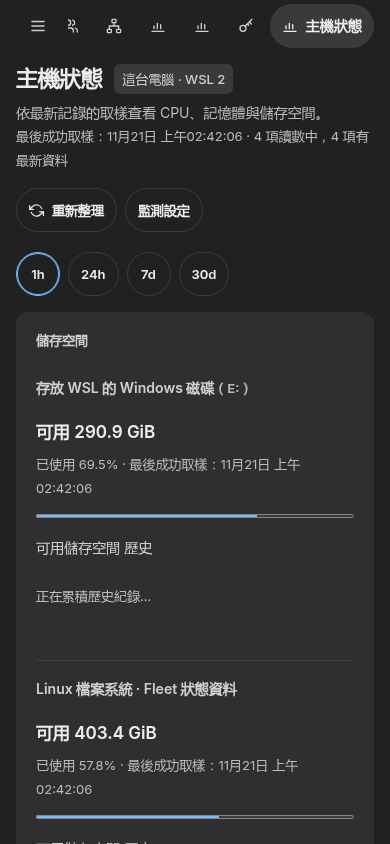
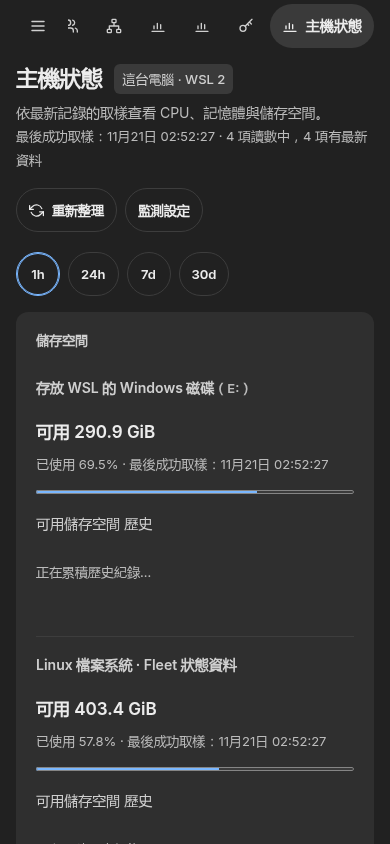
fix(web): keep Host health dates and load values together

diff --git a/src/ui/host-health.js b/src/ui/host-health.js
@@ -7,11 +7,12 @@ import {sectionPath} from '/assets/app-route.js';
 import {HOST_RANGES,numberOrNull,metricState,displayBytes,storageRows,historySeries,chartData,sampleCoverage} from './host-health-model.js';
 
 register('hostHealth',{
- en:{title:'Host health',computer:'This computer',lead:'CPU, memory and storage from the latest recorded samples.',settings:'Monitoring settings',refresh:'Refresh',refreshing:'Refreshing…',unsupported:'Host monitoring is not available on this computer.',off:'Host monitoring is off',offHint:'Turn it on in Settings to collect samples and keep bounded local history.',admin:'Administrator sign-in required',adminHint:'Sign in as a Fleet administrator to see host metrics.',starting:'Waiting for the first samples',stopping:'Stopping monitoring',failedHint:'Monitoring could not complete. Check its settings and local storage permissions; history cleanup may still need attention.',failed:'Monitoring needs attention',unavailable:'Not available',stale:'Stale',last:'Last successful sample: {0}',none:'No successful sample yet',wsl:'WSL 2',linux:'Linux',darwin:'macOS',wslNote:'CPU and memory describe WSL, not the physical Windows computer. The Windows backing drive is shown separately.',macNote:'APFS volumes may share free space. Do not add their free space together. Available memory is an estimate; pressure is shown separately.',linuxNote:'Local Linux filesystems and available memory. Unavailable fields are not treated as zero.',runtimeNote:'Paired Windows Runtimes are separate computers and are not included in these totals.',storage:'Storage',root:'Linux filesystem',state:'Fleet state',backing:'Windows backing drive',volume:'Local volume',drive:' ({0}:)',shared:'Shared APFS capacity',sharedHint:'Do not add free space across volumes.',free:'{0} available',used:'{0}% used',unknownDrive:'Windows drive not identified',chooseDrive:'Choose drive in Settings',unknownHint:'Linux free space alone does not show whether the Windows drive holding WSL has room.',cpu:'CPU',wslCpu:'WSL CPU',wslMemory:'WSL memory',cpuUsed:'{0}% used',cores:'{0} logical CPUs',load:'Load average: {0}',memory:'Memory',available:'{0} available of {1}',pressureLabel:'Memory pressure:',pressure:'Memory pressure: {0}',normal:'Normal',elevated:'Elevated',critical:'Critical',unknown:'Unknown',swap:'Swap free: {0}',history:'History',range:'History range',coverageSummary:'{0} of {1} readings have fresh data',collecting:'Collecting history…',noHistory:'No recorded samples in this range',historyUnavailable:'Recorded history is temporarily unavailable. Refresh to try again.',historyLoading:'Loading recorded history…',historyWaiting:'History has not started recording yet.',historyPaused:'History recording is paused.',historyFailed:'History could not be recorded. Current samples remain available.',lowSpace:'Low storage: keeping current samples in memory only.',recovering:'Waiting for both storage volumes to stay above 4 GiB for ten minutes.',diskUnavailable:'Storage data is unavailable; history is paused.',backingUnknown:'Identify the Windows backing drive before history can be recorded.',clockChanged:'The computer clock moved backwards; recording is waiting for it to catch up.',historyBusy:'History storage is busy; no additional write is queued.',minimum:'Minimum: {0}',maximum:'Peak: {0}',coverage:'{0} of {1} chart buckets contain recorded samples',gaps:'Gaps mean no sample was recorded; they are not zero.',retention:'History is capped at 64 MiB, with up to 24 hours of raw samples and 30 days of rollups. Older samples may be pruned earlier.',footprint:'Agent footprint is not available in this version.',snapshotOnly:'Refresh reads saved snapshots. It does not start a new probe.',samples:'Host every 30 s · storage every 60 s',chart:'{0} history',usedHistory:'Storage used',freeHistory:'Storage available',notMeasured:'Not measured'},
- 'zh-TW':{title:'主機狀態',computer:'這台電腦',lead:'依最新記錄的取樣查看 CPU、記憶體與儲存空間。',settings:'監測設定',refresh:'重新整理',refreshing:'重新整理中…',unsupported:'這台電腦尚未提供主機監測。',off:'主機監測已關閉',offHint:'請在設定中開啟，開始取樣並保留容量受限的本機歷史。',admin:'需要管理員登入',adminHint:'請以 Fleet 管理員身分登入，才能查看主機資料。',starting:'等待第一筆取樣',stopping:'正在停止監測',failedHint:'主機監測未能完成操作，請檢查設定與本機儲存空間權限；歷史資料可能仍需清理。',failed:'主機監測需要處理',unavailable:'無法取得',stale:'資料已過期',last:'最後成功取樣：{0}',none:'尚無成功的取樣',wsl:'WSL 2',linux:'Linux',darwin:'macOS',wslNote:'CPU 與記憶體代表 WSL，不是實體 Windows 電腦。存放 WSL 的 Windows 磁碟會另外列出。',macNote:'APFS 磁碟區可能共用空間，請勿把可用空間相加。可用記憶體是估算值，記憶體壓力會另外顯示。',linuxNote:'本機 Linux 檔案系統與可用記憶體。無法取得的欄位不會當作零。',runtimeNote:'配對的 Windows Runtime 是另一台電腦，不會加入這裡的總數。',storage:'儲存空間',root:'Linux 檔案系統',state:'Fleet 狀態資料',backing:'存放 WSL 的 Windows 磁碟',volume:'本機磁碟區',drive:'（{0}:）',shared:'共用 APFS 容量',sharedHint:'請勿把各磁碟區的可用空間相加。',free:'可用 {0}',used:'已使用 {0}%',unknownDrive:'尚未確認 Windows 磁碟',chooseDrive:'到設定選擇磁碟',unknownHint:'只有 Linux 的可用空間，無法判斷存放 WSL 的 Windows 磁碟是否還有空間。',cpu:'CPU',wslCpu:'WSL CPU',wslMemory:'WSL 記憶體',cpuUsed:'使用率 {0}%',cores:'{0} 個邏輯 CPU',load:'平均負載：{0}',memory:'記憶體',available:'可用 {0}，共 {1}',pressureLabel:'記憶體壓力：',pressure:'記憶體壓力：{0}',normal:'正常',elevated:'偏高',critical:'嚴重',unknown:'未知',swap:'Swap 可用：{0}',history:'歷史紀錄',range:'歷史期間',coverageSummary:'{1} 項讀數中，{0} 項有最新資料',collecting:'正在累積歷史紀錄…',noHistory:'這段期間尚無記錄的取樣',historyUnavailable:'暫時無法取得歷史紀錄，請重新整理再試。',historyLoading:'正在載入歷史紀錄…',historyWaiting:'歷史紀錄尚未開始取樣。',historyPaused:'歷史紀錄已暫停。',historyFailed:'無法記錄歷史，目前的取樣仍可查看。',lowSpace:'儲存空間不足：目前取樣只保留在記憶體中。',recovering:'等待兩個儲存空間持續十分鐘都超過 4 GiB。',diskUnavailable:'無法取得儲存空間資料，歷史紀錄已暫停。',backingUnknown:'請先確認存放 WSL 的 Windows 磁碟，再記錄歷史。',clockChanged:'電腦時間往回調整，正在等待時間追上後再記錄。',historyBusy:'歷史儲存空間忙碌中，不會排入額外的寫入。',minimum:'最低：{0}',maximum:'最高：{0}',coverage:'{1} 個圖表區間中，{0} 個有記錄取樣',gaps:'缺口代表沒有記錄取樣，不是零。',retention:'歷史資料最多 64 MiB；原始取樣最多保留 24 小時，彙整最多 30 天。較舊的取樣可能提早清除。',footprint:'這個版本尚未提供 Agent 資源用量。',snapshotOnly:'重新整理只讀取已保存的取樣，不會啟動新的探測。',samples:'主機每 30 秒 · 儲存空間每 60 秒',chart:'{0} 歷史',usedHistory:'儲存空間使用率',freeHistory:'可用儲存空間',notMeasured:'未量測'}
+ en:{title:'Host health',computer:'This computer',lead:'CPU, memory and storage from the latest recorded samples.',settings:'Monitoring settings',refresh:'Refresh',refreshing:'Refreshing…',unsupported:'Host monitoring is not available on this computer.',off:'Host monitoring is off',offHint:'Turn it on in Settings to collect samples and keep bounded local history.',admin:'Administrator sign-in required',adminHint:'Sign in as a Fleet administrator to see host metrics.',starting:'Waiting for the first samples',stopping:'Stopping monitoring',failedHint:'Monitoring could not complete. Check its settings and local storage permissions; history cleanup may still need attention.',failed:'Monitoring needs attention',unavailable:'Not available',stale:'Stale',lastLabel:'Last successful sample:',last:'Last successful sample: {0}',none:'No successful sample yet',wsl:'WSL 2',linux:'Linux',darwin:'macOS',wslNote:'CPU and memory describe WSL, not the physical Windows computer. The Windows backing drive is shown separately.',macNote:'APFS volumes may share free space. Do not add their free space together. Available memory is an estimate; pressure is shown separately.',linuxNote:'Local Linux filesystems and available memory. Unavailable fields are not treated as zero.',runtimeNote:'Paired Windows Runtimes are separate computers and are not included in these totals.',storage:'Storage',root:'Linux filesystem',state:'Fleet state',backing:'Windows backing drive',volume:'Local volume',drive:' ({0}:)',shared:'Shared APFS capacity',sharedHint:'Do not add free space across volumes.',free:'{0} available',used:'{0}% used',unknownDrive:'Windows drive not identified',chooseDrive:'Choose drive in Settings',unknownHint:'Linux free space alone does not show whether the Windows drive holding WSL has room.',cpu:'CPU',wslCpu:'WSL CPU',wslMemory:'WSL memory',cpuUsed:'{0}% used',cores:'{0} logical CPUs',loadLabel:'Load average:',load:'Load average: {0}',memory:'Memory',available:'{0} available of {1}',pressureLabel:'Memory pressure:',pressure:'Memory pressure: {0}',normal:'Normal',elevated:'Elevated',critical:'Critical',unknown:'Unknown',swap:'Swap free: {0}',history:'History',range:'History range',coverageSummary:'{0} of {1} readings have fresh data',collecting:'Collecting history…',noHistory:'No recorded samples in this range',historyUnavailable:'Recorded history is temporarily unavailable. Refresh to try again.',historyLoading:'Loading recorded history…',historyWaiting:'History has not started recording yet.',historyPaused:'History recording is paused.',historyFailed:'History could not be recorded. Current samples remain available.',lowSpace:'Low storage: keeping current samples in memory only.',recovering:'Waiting for both storage volumes to stay above 4 GiB for ten minutes.',diskUnavailable:'Storage data is unavailable; history is paused.',backingUnknown:'Identify the Windows backing drive before history can be recorded.',clockChanged:'The computer clock moved backwards; recording is waiting for it to catch up.',historyBusy:'History storage is busy; no additional write is queued.',minimum:'Minimum: {0}',maximum:'Peak: {0}',coverage:'{0} of {1} chart buckets contain recorded samples',gaps:'Gaps mean no sample was recorded; they are not zero.',retention:'History is capped at 64 MiB, with up to 24 hours of raw samples and 30 days of rollups. Older samples may be pruned earlier.',footprint:'Agent footprint is not available in this version.',snapshotOnly:'Refresh reads saved snapshots. It does not start a new probe.',samples:'Host every 30 s · storage every 60 s',chart:'{0} history',usedHistory:'Storage used',freeHistory:'Storage available',notMeasured:'Not measured'},
+ 'zh-TW':{title:'主機狀態',computer:'這台電腦',lead:'依最新記錄的取樣查看 CPU、記憶體與儲存空間。',settings:'監測設定',refresh:'重新整理',refreshing:'重新整理中…',unsupported:'這台電腦尚未提供主機監測。',off:'主機監測已關閉',offHint:'請在設定中開啟，開始取樣並保留容量受限的本機歷史。',admin:'需要管理員登入',adminHint:'請以 Fleet 管理員身分登入，才能查看主機資料。',starting:'等待第一筆取樣',stopping:'正在停止監測',failedHint:'主機監測未能完成操作，請檢查設定與本機儲存空間權限；歷史資料可能仍需清理。',failed:'主機監測需要處理',unavailable:'無法取得',stale:'資料已過期',lastLabel:'最後成功取樣：',last:'最後成功取樣：{0}',none:'尚無成功的取樣',wsl:'WSL 2',linux:'Linux',darwin:'macOS',wslNote:'CPU 與記憶體代表 WSL，不是實體 Windows 電腦。存放 WSL 的 Windows 磁碟會另外列出。',macNote:'APFS 磁碟區可能共用空間，請勿把可用空間相加。可用記憶體是估算值，記憶體壓力會另外顯示。',linuxNote:'本機 Linux 檔案系統與可用記憶體。無法取得的欄位不會當作零。',runtimeNote:'配對的 Windows 電腦是另一台，不算在這裡的數字裡。',storage:'儲存空間',root:'Linux 檔案系統',state:'Fleet 狀態資料',backing:'存放 WSL 的 Windows 磁碟',volume:'本機磁碟區',drive:'（{0}:）',shared:'共用 APFS 容量',sharedHint:'請勿把各磁碟區的可用空間相加。',free:'可用 {0}',used:'已使用 {0}%',unknownDrive:'尚未確認 Windows 磁碟',chooseDrive:'到設定選擇磁碟',unknownHint:'只有 Linux 的可用空間，無法判斷存放 WSL 的 Windows 磁碟是否還有空間。',cpu:'CPU',wslCpu:'WSL CPU',wslMemory:'WSL 記憶體',cpuUsed:'使用率 {0}%',cores:'{0} 個邏輯 CPU',loadLabel:'平均負載：',load:'平均負載：{0}',memory:'記憶體',available:'可用 {0}，共 {1}',pressureLabel:'記憶體壓力：',pressure:'記憶體壓力：{0}',normal:'正常',elevated:'偏高',critical:'嚴重',unknown:'未知',swap:'Swap 可用：{0}',history:'歷史紀錄',range:'歷史期間',coverageSummary:'{1} 項讀數中，{0} 項有最新資料',collecting:'正在累積歷史紀錄…',noHistory:'這段期間尚無記錄的取樣',historyUnavailable:'暫時無法取得歷史紀錄，請重新整理再試。',historyLoading:'正在載入歷史紀錄…',historyWaiting:'歷史紀錄尚未開始取樣。',historyPaused:'歷史紀錄已暫停。',historyFailed:'無法記錄歷史，目前的取樣仍可查看。',lowSpace:'儲存空間不足：目前取樣只保留在記憶體中。',recovering:'等待兩個儲存空間持續十分鐘都超過 4 GiB。',diskUnavailable:'無法取得儲存空間資料，歷史紀錄已暫停。',backingUnknown:'請先確認存放 WSL 的 Windows 磁碟，再記錄歷史。',clockChanged:'電腦時間往回調整，正在等待時間追上後再記錄。',historyBusy:'歷史儲存空間忙碌中，不會排入額外的寫入。',minimum:'最低：{0}',maximum:'最高：{0}',coverage:'{1} 個圖表區間中，{0} 個有記錄取樣',gaps:'缺口代表沒有記錄取樣，不是零。',retention:'歷史資料最多 64 MiB；原始取樣最多保留 24 小時，彙整最多 30 天。較舊的取樣可能提早清除。',footprint:'這個版本尚未提供 Agent 資源用量。',snapshotOnly:'重新整理只讀取已保存的取樣，不會啟動新的探測。',samples:'主機每 30 秒 · 儲存空間每 60 秒',chart:'{0} 歷史',usedHistory:'儲存空間使用率',freeHistory:'可用儲存空間',notMeasured:'未量測'}
 });
 const text=(key,...values)=>t(`hostHealth.${key}`,...values);
-const date=value=>numberOrNull(value)===null?text('none'):new Date(value).toLocaleString(lang()==='zh-TW'?'zh-TW':'en-GB',{month:'short',day:'numeric',hour:'2-digit',minute:'2-digit',second:'2-digit'});
+const date=value=>numberOrNull(value)===null?text('none'):new Date(value).toLocaleString(lang()==='zh-TW'?'zh-TW':'en-GB',{month:'short',day:'numeric',hour:'2-digit',minute:'2-digit',second:'2-digit',hour12:false});
+const sampleTime=value=>html`${text('lastLabel')}${lang()==='zh-TW'?'':' '}<span class="host-sample-time">${date(value)}</span>`;
 const settingLink=()=>sectionPath('notifications')+'#host-monitoring';
 const metricLabel=(metric,interval)=>metricState(metric,interval)==='ok'?null:text(metricState(metric,interval));
 export function historyMessage(status){
@@ -29,21 +30,21 @@ function Storage({health,history}){
  return html`<section class="card host-storage"><h3>${text('storage')}</h3>${health.platform==='wsl'&&health.disks?.value?.backingDrive!=='identified'?html`<div class="notice warn"><strong>${text('unknownDrive')}</strong><p>${text('unknownHint')}</p><a class="btn btn-sm" href=${settingLink()}>${text('chooseDrive')}</a></div>`:null}${!rows.length?html`<p class="note">${text('unavailable')}</p>`:rows.map(v=>{
   const name=v.roles.includes('wsl-backing')?text('backing'):v.roles.filter(r=>r==='root'||r==='state').map(r=>text(r==='root'?(health.platform==='darwin'?'volume':'root'):'state')).join(' · ')||text('volume');
   const known=state==='ok'&&numberOrNull(v.availableBytes)!==null;
-  return html`<article key=${v.id} class="host-volume"><div class="host-row"><h4>${name}${/^[A-Z]$/.test(v.drive||'')?html`<span class="note">${text('drive',v.drive)}</span>`:null}</h4>${state!=='ok'||!known?html`<span class="tag">${text(state==='stale'?'stale':'unavailable')}</span>`:null}</div><p class="host-value">${numberOrNull(v.availableBytes)!==null?text('free',displayBytes(v.availableBytes)):text('unavailable')}</p><p class="note">${numberOrNull(v.usedPercent,100)!==null?text('used',v.usedPercent.toFixed(1)):text('unavailable')} · ${text('last',date(v.sampledAt))}</p>${numberOrNull(v.usedPercent,100)===null?null:html`<progress class="host-space-meter" value=${v.usedPercent} max="100" aria-label=${text('used',v.usedPercent.toFixed(1))}></progress>`}${health.platform==='darwin'&&v.shared?html`<p class="note">${text('shared')} · ${text('sharedHint')}</p>`:null}<${HistoryChart} answer=${history} id=${`disk.${v.id}.available`} label=${text('freeHistory')} unit="bytes" /></article>`;
+  return html`<article key=${v.id} class="host-volume"><div class="host-row"><h4>${name}${/^[A-Z]$/.test(v.drive||'')?html`<span class="note">${text('drive',v.drive)}</span>`:null}</h4>${state!=='ok'||!known?html`<span class="tag">${text(state==='stale'?'stale':'unavailable')}</span>`:null}</div><p class="host-value">${numberOrNull(v.availableBytes)!==null?text('free',displayBytes(v.availableBytes)):text('unavailable')}</p><p class="note">${numberOrNull(v.usedPercent,100)!==null?text('used',v.usedPercent.toFixed(1)):text('unavailable')} · ${sampleTime(v.sampledAt)}</p>${numberOrNull(v.usedPercent,100)===null?null:html`<progress class="host-space-meter" value=${v.usedPercent} max="100" aria-label=${text('used',v.usedPercent.toFixed(1))}></progress>`}${health.platform==='darwin'&&v.shared?html`<p class="note">${text('shared')} · ${text('sharedHint')}</p>`:null}<${HistoryChart} answer=${history} id=${`disk.${v.id}.available`} label=${text('freeHistory')} unit="bytes" /></article>`;
  })}</section>`;
 }
 export function HostHealthView({health,history,busy,range,onRange,onRefresh}){
  const at=[health?.cpu?.sampledAt,health?.memory?.sampledAt,health?.disks?.sampledAt].filter(v=>numberOrNull(v)!==null),last=at.length?Math.max(...at):null;
  const cpu=health?.cpu?.value,memory=health?.memory?.value,coverage=sampleCoverage(health);
  const populated=health?.enabled&&health?.platformSupported!==false,platform=text(['wsl','linux','darwin'].includes(health?.platform)?health.platform:'unavailable');
- return html`<section class="host-health" aria-busy=${busy}><${PageHead} title=${text('title')} scope=${text('computer')+(populated?' · '+platform:'')} lead=${text('lead')} note=${(last===null?text('none'):text('last',date(last)))+(populated?' · '+text('coverageSummary',coverage.covered,coverage.total):'')}><button type="button" class="btn btn-sm" disabled=${busy} onClick=${onRefresh}><${Icon} name="restart" size=${15}/>${text(busy?'refreshing':'refresh')}</button>${health?.platformSupported===false?null:html`<a class="btn btn-sm" href=${settingLink()}>${text('settings')}</a>`}</${PageHead}>
+ return html`<section class="host-health" aria-busy=${busy}><${PageHead} title=${text('title')} scope=${text('computer')+(populated?' · '+platform:'')} lead=${text('lead')} note=${html`${last===null?text('none'):sampleTime(last)}${populated?' · '+text('coverageSummary',coverage.covered,coverage.total):''}`}><button type="button" class="btn btn-sm" disabled=${busy} onClick=${onRefresh}><${Icon} name="restart" size=${15}/>${text(busy?'refreshing':'refresh')}</button>${health?.platformSupported===false?null:html`<a class="btn btn-sm" href=${settingLink()}>${text('settings')}</a>`}</${PageHead}>
   ${!populated?html`<p class="note">${text('snapshotOnly')}</p>`:null}
   ${health?.platformSupported===false?html`<section class="card"><h3>${text('unsupported')}</h3></section>`:!health?.enabled?html`<section class="card host-off"><h3>${text(health?.state==='failed'?'failed':health?.state==='stopping'?'stopping':'off')}</h3><p>${text(health?.state==='failed'?'failedHint':health?.state==='stopping'?'stopping':'offHint')}</p><a class="btn btn-primary" href=${settingLink()}>${text('settings')}</a></section>`:html`
    ${health.state!=='sampling'?html`<div class="notice" role="status">${text(({starting:'starting',stopping:'stopping',failed:'failed'})[health.state]||'unavailable')}</div>`:null}
    ${health.history?.state!=='recording'?html`<p class="notice" role="status">${historyMessage(health.history)}</p>`:null}
    <div class="host-range" role="group" aria-label=${text('range')}>${HOST_RANGES.map(r=>html`<button type="button" class=${`btn btn-sm${range===r?' active':''}`} aria-pressed=${range===r} onClick=${()=>onRange(r)}>${r}</button>`)}</div>
-   <div class="host-grid"><div class="host-compute"><section class="card"><div class="host-row"><h3>${text(health.platform==='wsl'?'wslCpu':'cpu')}</h3><${ValueState} metric=${health.cpu} interval=${30000}/></div><p class="host-value">${numberOrNull(cpu?.usedPercent,100)===null?text('unavailable'):text('cpuUsed',cpu.usedPercent.toFixed(1))}</p><p class="note">${numberOrNull(cpu?.logicalCpus)!==null?text('cores',cpu.logicalCpus):text('unavailable')}</p>${Array.isArray(cpu?.loadAverage)?html`<p class="note">${text('load',cpu.loadAverage.slice(0,3).map(n=>numberOrNull(n)===null?'—':n.toFixed(2)).join(' / '))}</p>`:null}<p class="note">${text('last',date(health.cpu?.sampledAt))}</p><${HistoryChart} answer=${history} id="cpu.used" label=${text('cpu')}/></section>
-   <section class="card"><div class="host-row"><h3>${text(health.platform==='wsl'?'wslMemory':'memory')}</h3><${ValueState} metric=${health.memory} interval=${30000}/></div><p class="host-value">${text('pressureLabel')}${lang()==='zh-TW'?'':' '}<span class="host-pressure-value">${text(metricState(health.memory,30000)==='ok'&&['normal','elevated','critical'].includes(memory?.pressure)?memory.pressure:'unknown')}</span></p><p class="note">${numberOrNull(memory?.availableBytes)===null?text('unavailable'):text('available',displayBytes(memory.availableBytes),displayBytes(memory.totalBytes)||text('unavailable'))}</p><p class="note">${text('swap',displayBytes(memory?.swapFreeBytes)||text('unavailable'))}</p><p class="note">${text('last',date(health.memory?.sampledAt))}</p><${HistoryChart} answer=${history} id="memory.available" label=${text('memory')} unit="bytes" /></section></div>
+   <div class="host-grid"><div class="host-compute"><section class="card"><div class="host-row"><h3>${text(health.platform==='wsl'?'wslCpu':'cpu')}</h3><${ValueState} metric=${health.cpu} interval=${30000}/></div><p class="host-value">${numberOrNull(cpu?.usedPercent,100)===null?text('unavailable'):text('cpuUsed',cpu.usedPercent.toFixed(1))}</p><p class="note">${numberOrNull(cpu?.logicalCpus)!==null?text('cores',cpu.logicalCpus):text('unavailable')}</p>${Array.isArray(cpu?.loadAverage)?html`<p class="note">${text('loadLabel')}${lang()==='zh-TW'?'':' '}<span class="host-load-value">${cpu.loadAverage.slice(0,3).map(n=>numberOrNull(n)===null?'—':n.toFixed(2)).join(' / ')}</span></p>`:null}<p class="note">${sampleTime(health.cpu?.sampledAt)}</p><${HistoryChart} answer=${history} id="cpu.used" label=${text('cpu')}/></section>
+   <section class="card"><div class="host-row"><h3>${text(health.platform==='wsl'?'wslMemory':'memory')}</h3><${ValueState} metric=${health.memory} interval=${30000}/></div><p class="host-value">${text('pressureLabel')}${lang()==='zh-TW'?'':' '}<span class="host-pressure-value">${text(metricState(health.memory,30000)==='ok'&&['normal','elevated','critical'].includes(memory?.pressure)?memory.pressure:'unknown')}</span></p><p class="note">${numberOrNull(memory?.availableBytes)===null?text('unavailable'):text('available',displayBytes(memory.availableBytes),displayBytes(memory.totalBytes)||text('unavailable'))}</p><p class="note">${text('swap',displayBytes(memory?.swapFreeBytes)||text('unavailable'))}</p><p class="note">${sampleTime(health.memory?.sampledAt)}</p><${HistoryChart} answer=${history} id="memory.available" label=${text('memory')} unit="bytes" /></section></div>
    <${Storage} health=${health} history=${history}/></div><p class="note">${text(health.platform==='wsl'?'wslNote':health.platform==='darwin'?'macNote':'linuxNote')}</p><p class="note">${text('samples')} · ${text('snapshotOnly')}</p><p class="note">${text('runtimeNote')}</p><p class="note">${text('gaps')}</p><p class="note">${text('retention')}</p><p class="note">${text('footprint')}</p>`}
  </section>`;
 }

diff --git a/tests/host-health-ui-m3454.test.ts b/tests/host-health-ui-m3454.test.ts
@@ -36,6 +36,9 @@ describe('real Host health UI',()=>{
   const draw=async()=>{await p.mount(h(HostHealthView,{health:health(),history:{series:[{id:'cpu.used',buckets}]},range:'1h',busy:false,onRange(){},onRefresh(){}}));await settle(4);};await draw();expect(p.root.querySelector('.host-chart svg')).toBeNull();expect(p.root.textContent).toContain(language==='en'?'Collecting history…':'正在累積歷史紀錄…');
   buckets[3]={average:40,min:40,max:40,count:1};await draw();expect(p.root.querySelector('.host-chart svg')).not.toBeNull();expect(p.root.textContent).toContain(language==='en'?'Peak: 40.0%':'最高：40.0%');
  });
+ it('keeps compact zh dates and the load-number group intact',async()=>{
+  const p=await view(health(),'zh-TW');const times=[...p.root.querySelectorAll('.host-sample-time')];expect(times).toHaveLength(5);for(const el of times){expect(el.textContent).toMatch(/\d+月\d+日.*\d{2}:\d{2}:\d{2}/);expect(el.textContent).not.toMatch(/上午|下午/);}expect(p.root.querySelector('.host-load-value')?.textContent).toBe('0.10 / 0.20 / 0.30');expect(p.root.textContent).toContain('配對的 Windows 電腦是另一台，不算在這裡的數字裡。');
+ });
  it('represents macOS APFS sharing and unknown pressure without a healthy substitute',async()=>{
   const s=health('darwin');s.memory.value!.pressure='unknown';s.disks.value!.volumes[0].shared=true;const p=await view(s);
   expect(p.root.textContent).toContain('Memory pressure: Unknown');expect(p.root.textContent).toContain('Shared APFS capacity');expect(p.root.textContent).toContain('Do not add their free space together');expect(p.root.textContent).not.toContain('Windows backing drive');expect(p.root.querySelectorAll('.host-volume')).toHaveLength(1);

diff --git a/src/ui/shared/app.css b/src/ui/shared/app.css
@@ -5103,6 +5103,7 @@ html.oo-immersive .p-fleet > .panel-body { z-index: 50; }
 /* M3454/S207: Host health uses the Fleet cards and shared page head. */
 .host-health { min-width: 0; }
 .host-health .s-page-actions { display: flex; flex-wrap: wrap; gap: var(--s-2); }
+.host-health :is(.host-sample-time, .host-load-value) { display: inline-block; white-space: nowrap; overflow-wrap: normal; }
 .host-health .host-pressure-value { white-space: nowrap; overflow-wrap: normal; }
 .host-health .host-row { display: flex; flex-wrap: wrap; align-items: baseline; justify-content: space-between; gap: 8px 16px; }
 .host-health .host-grid { display: grid; grid-template-columns: minmax(0, 1.4fr) minmax(0, 1fr) minmax(0, 1fr); gap: 16px; }

diff --git a/docs/evidence/host-health-page-m3454/R3.md b/docs/evidence/host-health-page-m3454/R3.md
@@ -1,0 +1,11 @@
+# Second Leader phone polish
+
+Scope: compact non-wrapping sample timestamps, a non-wrapping load-number group and natural Traditional Chinese Windows-computer wording. The drive suffix remains full-width `（E:）` as already checked in R1. Backend/model/route ownership/collector/history/Settings remain unchanged.
+
+All date/time values now occupy one atomic span, so a line can wrap before them but not through the date or clock. The zh-TW clock uses a 24-hour format to remove the long 上午/下午 prefix in narrow paired cards. The three load values likewise stay in one group. The note reads「配對的 Windows 電腦是另一台，不算在這裡的數字裡。」.
+
+The new mounted zh-TW case fails before the change, then the UI/locale/CSS-ratchet set passes 31 cases across three files. Restoring the old 12-hour format makes the date case red; exact input is restored. Core stage count is now 98 distinct across 11 files, plus the separately documented dictionary fixture controls. Only two actual WSL phone zh-TW views are retaken (upper and resources), because the wrapping changes visible layout. Earlier R1 desktop and historical platform/Settings images carry with explicit stage labels. No full Settings/native CLI/provider campaign.
+
+The fixture-only dictionary fix is already in b241 (R2): it does not change any product/runtime source. Its existing dictionary + actual route 16/2 controls carry. User visual HOLD remains.
+
+Both two-view browser cases assert five complete date/time groups plus the three-number load group: each renders on exactly one line and fits its card. No overflow or page error; paired CPU/memory and intact 正常 remain. Direct image/privacy review is clear, including the full-width suffix and natural footer. The phone layout visibly improves, so these two replacements are sent to the Leader; no desktop repeat. Test types have zero diagnostics and final asset packaging succeeds.

diff --git a/docs/evidence/host-health-page-m3454/gallery.md b/docs/evidence/host-health-page-m3454/gallery.md
@@ -1,6 +1,6 @@
 # Capture index
 
-Four real-data desktop EN light/dark and phone zh-TW upper/resources originals are current Leader R1 retakes. The other20 are historical b81 controls with the prior sparse chart/copy; see [R1](R1.md). All originals were visually/privacy inspected. Real WSL views contain actual cached metrics; the roster is synthetic. Fixture views demonstrate rendering only.
+Two desktop EN light/dark originals carry from R1; phone zh-TW upper/resources are the current R3 retakes. The other20 are historical b81 controls with the prior sparse chart/copy; see [R1](R1.md) and [R3](R3.md). All originals were visually/privacy inspected. Real WSL views contain actual cached metrics; the roster is synthetic. Fixture views demonstrate rendering only.
 
 | View | Source |
 |---|---|

diff --git a/docs/evidence/host-health-page-m3454/README.md b/docs/evidence/host-health-page-m3454/README.md
@@ -38,3 +38,5 @@ Additional style/CSP/token/input checks: six files contained134 distinct cases; 
 Leader-requested polish and four replacement real-data originals: [R1](R1.md). Core stage count is now97 distinct; prior93 results carry. No user hold release is implied.
 
 CI fixture-only correction: [R2](R2.md); dictionary + real route16/2 pass with product/UI byte-identical to R1. The initial zero-test VM collection failure is disclosed, not counted as a mutation control.
+
+Second phone polish: [R3](R3.md), two replacement originals and one added date/load control bring the core stage total to98 distinct cases. R2 dictionary controls remain separate. USER HOLD remains.
